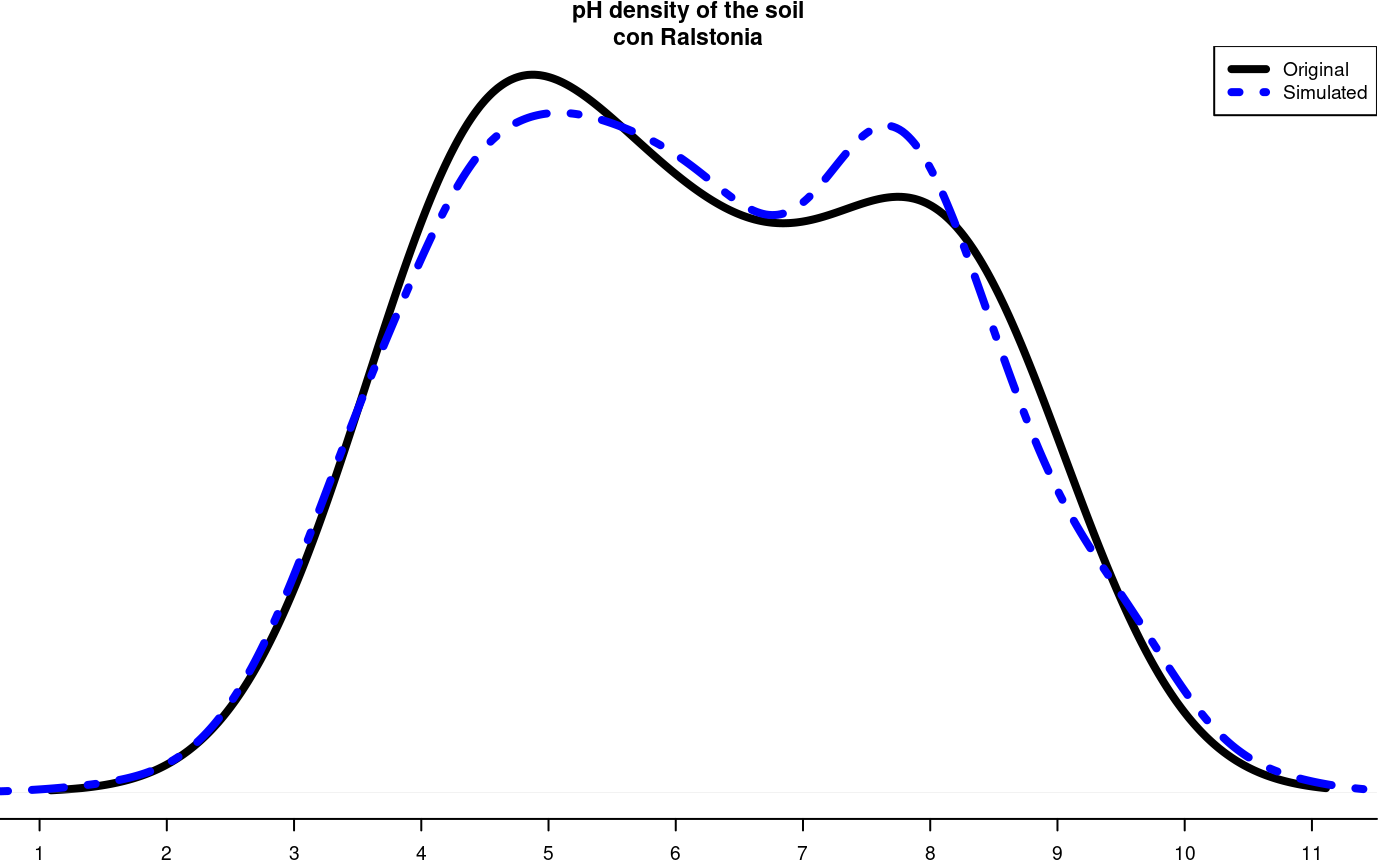
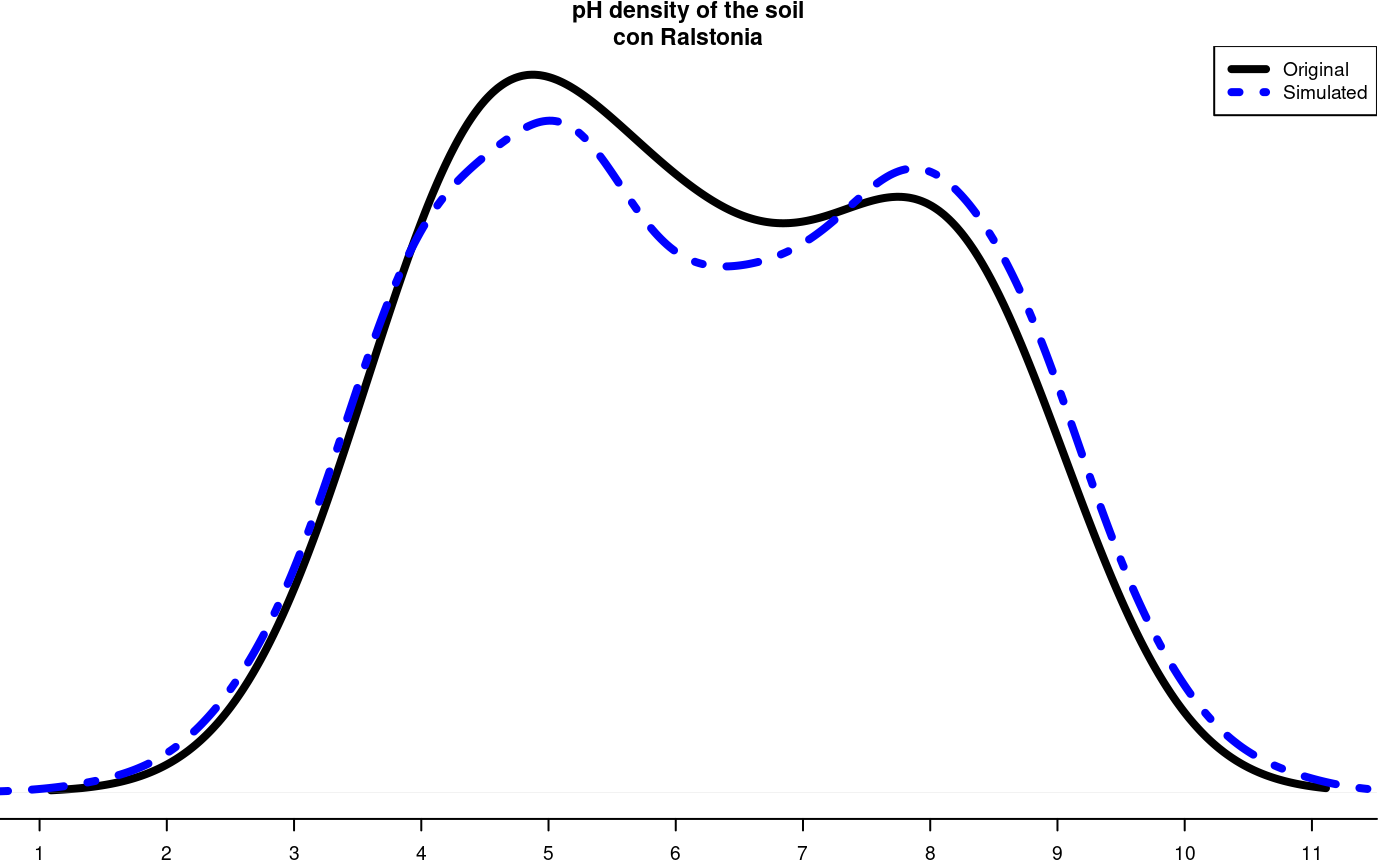
Version 1.4.0

diff --git a/docs/reference/AMMI.html b/docs/reference/AMMI.html
@@ -253,7 +253,84 @@ graphs and analysis.</p>
     <p>additional graphics see help(plot.AMMI).</p>
 
     <h2 class="hasAnchor" id="examples"><a class="anchor" href="#examples"></a>Examples</h2>
-    <pre class="examples"></pre>
+    <pre class="examples"><div class='input'>
+<span class='co'># Full replications</span>
+<span class='fu'><a href='https://rdrr.io/r/base/library.html'>library</a></span>(<span class='no'>agricolae</span>)
+<span class='co'># Example 1</span>
+<span class='fu'><a href='https://rdrr.io/r/utils/data.html'>data</a></span>(<span class='no'>plrv</span>)
+<span class='no'>model</span><span class='kw'>&lt;-</span> <span class='fu'><a href='https://rdrr.io/r/base/with.html'>with</a></span>(<span class='no'>plrv</span>,<span class='fu'>AMMI</span>(<span class='no'>Locality</span>, <span class='no'>Genotype</span>, <span class='no'>Rep</span>, <span class='no'>Yield</span>, <span class='kw'>console</span><span class='kw'>=</span><span class='fl'>FALSE</span>))
+<span class='no'>model</span>$<span class='no'>ANOVA</span></div><div class='output co'>#&gt; Analysis of Variance Table
+#&gt; 
+#&gt; Response: Y
+#&gt;            Df Sum Sq Mean Sq  F value    Pr(&gt;F)    
+#&gt; ENV         5 122284 24456.9 257.0382  9.08e-12 ***
+#&gt; REP(ENV)   12   1142    95.1   2.5694  0.002889 ** 
+#&gt; GEN        27  17533   649.4  17.5359 &lt; 2.2e-16 ***
+#&gt; ENV:GEN   135  23762   176.0   4.7531 &lt; 2.2e-16 ***
+#&gt; Residuals 324  11998    37.0                       
+#&gt; ---
+#&gt; Signif. codes:  0 ‘***’ 0.001 ‘**’ 0.01 ‘*’ 0.05 ‘.’ 0.1 ‘ ’ 1</div><div class='input'><span class='co'># see help(plot.AMMI)</span>
+<span class='co'># biplot</span>
+<span class='fu'><a href='https://rdrr.io/r/base/plot.html'>plot</a></span>(<span class='no'>model</span>)</div><div class='img'><img src='AMMI-1.png' alt='' width='700' height='433' /></div><div class='input'><span class='co'># triplot PC 1,2,3</span>
+<span class='fu'><a href='https://rdrr.io/r/base/plot.html'>plot</a></span>(<span class='no'>model</span>, <span class='kw'>type</span><span class='kw'>=</span><span class='fl'>2</span>, <span class='kw'>number</span><span class='kw'>=</span><span class='fl'>TRUE</span>)</div><div class='img'><img src='AMMI-2.png' alt='' width='700' height='433' /></div><div class='input'><span class='co'># biplot PC1 vs Yield</span>
+<span class='fu'><a href='https://rdrr.io/r/base/plot.html'>plot</a></span>(<span class='no'>model</span>, <span class='kw'>first</span><span class='kw'>=</span><span class='fl'>0</span>,<span class='kw'>second</span><span class='kw'>=</span><span class='fl'>1</span>, <span class='kw'>number</span><span class='kw'>=</span><span class='fl'>TRUE</span>)</div><div class='img'><img src='AMMI-3.png' alt='' width='700' height='433' /></div><div class='input'><span class='co'># Example 2</span>
+<span class='fu'><a href='https://rdrr.io/r/utils/data.html'>data</a></span>(<span class='no'>CIC</span>)
+<span class='no'>data1</span><span class='kw'>&lt;-</span><span class='no'>CIC</span>$<span class='no'>comas</span>[,<span class='fu'><a href='https://rdrr.io/r/base/c.html'>c</a></span>(<span class='fl'>1</span>,<span class='fl'>6</span>,<span class='fl'>7</span>,<span class='fl'>17</span>,<span class='fl'>18</span>)]
+<span class='no'>data2</span><span class='kw'>&lt;-</span><span class='no'>CIC</span>$<span class='no'>oxapampa</span>[,<span class='fu'><a href='https://rdrr.io/r/base/c.html'>c</a></span>(<span class='fl'>1</span>,<span class='fl'>6</span>,<span class='fl'>7</span>,<span class='fl'>19</span>,<span class='fl'>20</span>)]
+<span class='no'>cic</span> <span class='kw'>&lt;-</span> <span class='fu'><a href='https://rdrr.io/r/base/cbind.html'>rbind</a></span>(<span class='no'>data1</span>,<span class='no'>data2</span>)
+<span class='no'>model</span><span class='kw'>&lt;-</span><span class='fu'><a href='https://rdrr.io/r/base/with.html'>with</a></span>(<span class='no'>cic</span>,<span class='fu'>AMMI</span>(<span class='no'>Locality</span>, <span class='no'>Genotype</span>, <span class='no'>Rep</span>, <span class='no'>relative</span>))</div><div class='output co'>#&gt; 
+#&gt; Warning. The analysis AMMI is not possible.
+#&gt; The number of environments and number of genotypes must be greater than 2</div><div class='input'><span class='no'>model</span>$<span class='no'>ANOVA</span></div><div class='output co'>#&gt; Analysis of Variance Table
+#&gt; 
+#&gt; Response: Y
+#&gt;            Df Sum Sq Mean Sq  F value    Pr(&gt;F)    
+#&gt; ENV         1 6.1839  6.1839 184.8518 0.0001694 ***
+#&gt; REP(ENV)    4 0.1338  0.0335   8.4703 1.293e-06 ***
+#&gt; GEN       126 9.6729  0.0768  19.4377 &lt; 2.2e-16 ***
+#&gt; ENV:GEN   108 1.3479  0.0125   3.1601 &lt; 2.2e-16 ***
+#&gt; Residuals 492 1.9432  0.0039                       
+#&gt; ---
+#&gt; Signif. codes:  0 ‘***’ 0.001 ‘**’ 0.01 ‘*’ 0.05 ‘.’ 0.1 ‘ ’ 1</div><div class='input'><span class='fu'><a href='https://rdrr.io/r/base/plot.html'>plot</a></span>(<span class='no'>model</span>,<span class='fl'>0</span>,<span class='fl'>1</span>,<span class='kw'>angle</span><span class='kw'>=</span><span class='fl'>20</span>,<span class='kw'>ecol</span><span class='kw'>=</span><span class='st'>"brown"</span>)</div><div class='img'><img src='AMMI-4.png' alt='' width='700' height='433' /></div><div class='input'><span class='co'># Example 3</span>
+<span class='co'># Only means. Mean square error is well-known.</span>
+<span class='fu'><a href='https://rdrr.io/r/utils/data.html'>data</a></span>(<span class='no'>sinRepAmmi</span>)
+<span class='no'>REP</span> <span class='kw'>&lt;-</span> <span class='fl'>3</span>
+<span class='no'>MSerror</span> <span class='kw'>&lt;-</span> <span class='fl'>93.24224</span>
+<span class='co'>#startgraph</span>
+<span class='no'>model</span><span class='kw'>&lt;-</span><span class='fu'><a href='https://rdrr.io/r/base/with.html'>with</a></span>(<span class='no'>sinRepAmmi</span>,<span class='fu'>AMMI</span>(<span class='no'>ENV</span>, <span class='no'>GEN</span>, <span class='no'>REP</span>, <span class='no'>YLD</span>, <span class='no'>MSerror</span>,<span class='kw'>PC</span><span class='kw'>=</span><span class='fl'>TRUE</span>))
+<span class='co'># print anova</span>
+<span class='fu'><a href='https://rdrr.io/r/base/print.html'>print</a></span>(<span class='no'>model</span>$<span class='no'>ANOVA</span>,<span class='kw'>na.print</span> <span class='kw'>=</span> <span class='st'>""</span>)</div><div class='output co'>#&gt;            Df    Sum Sq      Mean Sq  F value       Pr(&gt;F)
+#&gt; ENV         4 728766.51 182191.62761                      
+#&gt; REP(ENV)   10                                             
+#&gt; GEN        49  23488.96    479.36643 5.141087 0.000000e+00
+#&gt; ENV:GEN   196  40728.33    207.79760 2.228578 9.998669e-13
+#&gt; Residuals 490  45688.70     93.24224                      </div><div class='input'><span class='co'># Biplot with the one restored observed.</span>
+<span class='fu'><a href='https://rdrr.io/r/base/plot.html'>plot</a></span>(<span class='no'>model</span>,<span class='fl'>0</span>,<span class='fl'>1</span>,<span class='kw'>type</span><span class='kw'>=</span><span class='fl'>1</span>)</div><div class='img'><img src='AMMI-5.png' alt='' width='700' height='433' /></div><div class='input'><span class='co'># with principal components model$PC is class "princomp"</span>
+<span class='no'>pc</span><span class='kw'>&lt;-</span> <span class='no'>model</span>$<span class='no'>PC</span>
+<span class='no'>pc</span>$<span class='no'>loadings</span></div><div class='output co'>#&gt; 
+#&gt; Loadings:
+#&gt;    Comp.1 Comp.2 Comp.3 Comp.4 Comp.5
+#&gt; A1  0.243  0.122  0.811  0.262  0.447
+#&gt; A2  0.312  0.120        -0.824  0.447
+#&gt; A3        -0.876 -0.131  0.107  0.447
+#&gt; A4 -0.846  0.287                0.447
+#&gt; A5  0.352  0.348 -0.563  0.489  0.447
+#&gt; 
+#&gt;                Comp.1 Comp.2 Comp.3 Comp.4 Comp.5
+#&gt; SS loadings       1.0    1.0    1.0    1.0    1.0
+#&gt; Proportion Var    0.2    0.2    0.2    0.2    0.2
+#&gt; Cumulative Var    0.2    0.4    0.6    0.8    1.0</div><div class='input'><span class='fu'><a href='https://rdrr.io/r/base/summary.html'>summary</a></span>(<span class='no'>pc</span>)</div><div class='output co'>#&gt; Importance of components:
+#&gt;                            Comp.1    Comp.2    Comp.3     Comp.4       Comp.5
+#&gt; Standard deviation     13.2655703 7.1030079 6.0540524 2.90561020 1.833059e-08
+#&gt; Proportion of Variance  0.6481067 0.1858144 0.1349855 0.03109348 1.237507e-18
+#&gt; Cumulative Proportion   0.6481067 0.8339211 0.9689065 1.00000000 1.000000e+00</div><div class='input'><span class='fu'><a href='https://rdrr.io/r/stats/biplot.html'>biplot</a></span>(<span class='no'>pc</span>)</div><div class='img'><img src='AMMI-6.png' alt='' width='700' height='433' /></div><div class='input'><span class='co'># Principal components by means of the covariance similar AMMI</span>
+<span class='co'># It is to compare results with AMMI</span>
+<span class='no'>cova</span><span class='kw'>&lt;-</span><span class='fu'><a href='https://rdrr.io/r/stats/cor.html'>cov</a></span>(<span class='no'>model</span>$<span class='no'>genXenv</span>)
+<span class='no'>values</span><span class='kw'>&lt;-</span><span class='fu'><a href='https://rdrr.io/r/base/eigen.html'>eigen</a></span>(<span class='no'>cova</span>)
+<span class='no'>total</span><span class='kw'>&lt;-</span><span class='fu'><a href='https://rdrr.io/r/base/sum.html'>sum</a></span>(<span class='no'>values</span>$<span class='no'>values</span>)
+<span class='fu'><a href='https://rdrr.io/r/base/Round.html'>round</a></span>(<span class='no'>values</span>$<span class='no'>values</span>*<span class='fl'>100</span>/<span class='no'>total</span>,<span class='fl'>2</span>)</div><div class='output co'>#&gt; [1] 64.81 18.58 13.50  3.11  0.00</div><div class='input'># AMMI: 64.81 18.58 13.50  3.11  0.00
+
+
+</div></pre>
   </div>
   <div class="col-md-3 hidden-xs hidden-sm" id="pkgdown-sidebar">
     <nav id="toc" data-toggle="toc" class="sticky-top">

diff --git a/docs/articles/SpecialFunctions.html b/docs/articles/SpecialFunctions.html
@@ -190,7 +190,7 @@ Method distance: binary
 Method cluster : complete
 rows and cols  : 25 107
 n-bootstrap    : 5
-Run time       : 0.601563 secs </code></pre>
+Run time       : 0.6989639 secs </code></pre>
 <div class="figure">
 <img src="SpecialFunctions_files/figure-html/f7-1.png" alt="Dendrogram, production by `consensus`" width="700"><p class="caption">
 Dendrogram, production by <code>consensus</code>
@@ -216,12 +216,12 @@ Dendrogram, production by <code><a href="../reference/hcut.html">hcut()</a></cod
 <span class="no">data</span> <span class="kw">&lt;-</span> <span class="no">output</span>$<span class="no">table.dend</span>
 <span class="fu"><a href="https://rdrr.io/r/utils/head.html">head</a></span>(<span class="no">output</span>$<span class="no">table.dend</span>)</pre></body></html></div>
 <pre><code>   X1  X2 xaxis     height percentage groups
-1  -6 -24  7.50 0.02857143         80   6-24
-2  -3  -4 19.50 0.03571429         40    3-4
-3  -2  -8 22.50 0.03846154         80    2-8
-4  -7 -10 10.50 0.03846154         60   7-10
-5 -21   2 18.75 0.07142857         40 3-4-21
-6 -16   3 21.75 0.07407407         80 2-8-16</code></pre>
+1  -6 -24  7.50 0.02857143         40   6-24
+2  -3  -4 19.50 0.03571429         80    3-4
+3  -2  -8 22.50 0.03846154         60    2-8
+4  -7 -10 10.50 0.03846154        100   7-10
+5 -21   2 18.75 0.07142857         60 3-4-21
+6 -16   3 21.75 0.07407407         20 2-8-16</code></pre>
 <div class="sourceCode" id="cb10"><html><body><pre class="r"><span class="no">oldpar</span><span class="kw">&lt;-</span><span class="fu"><a href="https://rdrr.io/r/graphics/par.html">par</a></span>(<span class="kw">mar</span><span class="kw">=</span><span class="fu"><a href="https://rdrr.io/r/base/c.html">c</a></span>(<span class="fl">3</span>,<span class="fl">3</span>,<span class="fl">1</span>,<span class="fl">1</span>),<span class="kw">cex</span><span class="kw">=</span><span class="fl">0.6</span>)
 <span class="fu"><a href="https://rdrr.io/r/base/plot.html">plot</a></span>(<span class="no">dend</span>,<span class="kw">type</span><span class="kw">=</span><span class="st">"r"</span>,<span class="kw">edgePar</span> <span class="kw">=</span> <span class="fu"><a href="https://rdrr.io/r/base/list.html">list</a></span>(<span class="kw">lty</span><span class="kw">=</span><span class="fl">1</span>:<span class="fl">2</span>, <span class="kw">col</span><span class="kw">=</span><span class="fu"><a href="https://rdrr.io/r/grDevices/colors.html">colors</a></span>()[<span class="fu"><a href="https://rdrr.io/r/base/c.html">c</a></span>(<span class="fl">42</span>,<span class="fl">84</span>)]) ,<span class="kw">las</span><span class="kw">=</span><span class="fl">1</span>)
 <span class="fu"><a href="https://rdrr.io/r/graphics/text.html">text</a></span>(<span class="no">data</span>[,<span class="fl">3</span>],<span class="no">data</span>[,<span class="fl">4</span>],<span class="no">data</span>[,<span class="fl">5</span>],<span class="kw">col</span><span class="kw">=</span><span class="st">"blue"</span>,<span class="kw">cex</span><span class="kw">=</span><span class="fl">1</span>)</pre></body></html></div>
@@ -251,13 +251,13 @@ Distribution of the simulated and the original data
 <p>1000 data was simulated, being the frequency table:</p>
 <div class="sourceCode" id="cb15"><html><body><pre class="r"><span class="fu"><a href="https://rdrr.io/r/base/Round.html">round</a></span>(<span class="fu"><a href="../reference/table.freq.html">table.freq</a></span>(<span class="no">h</span>),<span class="fl">2</span>)</pre></body></html></div>
 <pre><code>  Lower Upper  Main Frequency Percentage   CF   CPF
-1  1.40  2.76  2.08        13        1.3   13   1.3
-2  2.76  4.12  3.44       127       12.7  140  14.0
-3  4.12  5.48  4.80       250       25.0  390  39.0
-4  5.48  6.84  6.16       227       22.7  617  61.7
-5  6.84  8.20  7.52       237       23.7  854  85.4
-6  8.20  9.56  8.88       122       12.2  976  97.6
-7  9.56 10.92 10.24        24        2.4 1000 100.0</code></pre>
+1  1.50  2.83  2.16        20        2.0   20   2.0
+2  2.83  4.16  3.50       141       14.1  161  16.1
+3  4.16  5.49  4.83       245       24.5  406  40.6
+4  5.49  6.82  6.16       183       18.3  589  58.9
+5  6.82  8.15  7.48       223       22.3  812  81.2
+6  8.15  9.48  8.82       159       15.9  971  97.1
+7  9.48 10.81 10.15        29        2.9 1000 100.0</code></pre>
 <p><strong>Some statistics, original data:</strong></p>
 <div class="sourceCode" id="cb17"><html><body><pre class="r"><span class="fu"><a href="https://rdrr.io/r/base/summary.html">summary</a></span>(<span class="no">soil</span>$<span class="no">pH</span>)</pre></body></html></div>
 <pre><code>   Min. 1st Qu.  Median    Mean 3rd Qu.    Max. 
@@ -265,7 +265,7 @@ Distribution of the simulated and the original data
 <p><strong>Some statistics, montecarlo simulate data:</strong></p>
 <div class="sourceCode" id="cb19"><html><body><pre class="r"><span class="fu"><a href="https://rdrr.io/r/base/summary.html">summary</a></span>(<span class="no">simulated</span>)</pre></body></html></div>
 <pre><code>   Min. 1st Qu.  Median    Mean 3rd Qu.    Max. 
-  1.423   4.718   6.090   6.183   7.639  10.895 </code></pre>
+  1.541   4.659   6.178   6.231   7.835  10.757 </code></pre>
 </div>
 <div id="re-sampling-in-linear-model" class="section level2">
 <h2 class="hasAnchor">
@@ -280,9 +280,9 @@ Distribution of the simulated and the original data
 <span class="no">Xsol</span><span class="kw">&lt;-</span><span class="fu"><a href="https://rdrr.io/r/base/matrix.html">as.matrix</a></span>(<span class="fu"><a href="https://rdrr.io/r/base/Round.html">round</a></span>(<span class="no">analysis</span>$<span class="no">solution</span>,<span class="fl">2</span>))
 <span class="fu"><a href="https://rdrr.io/r/base/print.html">print</a></span>(<span class="no">Xsol</span>,<span class="kw">na.print</span> <span class="kw">=</span> <span class="st">""</span>)</pre></body></html></div>
 <pre><code>             Df Sum Sq Mean Sq F value Pr(&gt;F) Resampling
-variety       1  25.09   25.09    7.26   0.02       0.01
-date          2  13.89    6.95    2.01   0.18       0.22
-variety:date  2   4.85    2.43    0.70   0.51       0.54
+variety       1  25.09   25.09    7.26   0.02       0.02
+date          2  13.89    6.95    2.01   0.18       0.21
+variety:date  2   4.85    2.43    0.70   0.51       0.55
 Residuals    12  41.48    3.46                          </code></pre>
 <p>The function <code><a href="../reference/resampling.model.html">resampling.model()</a></code> can be used when the errors have a different distribution from normal.</p>
 </div>
@@ -313,11 +313,11 @@ Validation of the analysis of variancia for the proposed model
 Simulations: 100 
 
              Df   F value % Acceptance % Rejection  Criterion
-variety       1 7.2580377           53          47 acceptable
-date          2 2.0095604           63          37 acceptable
-variety:date  2 0.7020312           70          30 acceptable
+variety       1 7.2580377           59          41 acceptable
+date          2 2.0095604           66          34 acceptable
+variety:date  2 0.7020312           68          32 acceptable
 ---</code></pre>
-<p>The validation is referred to the percentage of decision results equal to the result of the ANOVA decision. Thus, 70% of the results simulated on the interaction variety*date gave the same result of acceptance or rejection obtained in the ANOVA.</p>
+<p>The validation is referred to the percentage of decision results equal to the result of the ANOVA decision. Thus, 68% of the results simulated on the interaction variety*date gave the same result of acceptance or rejection obtained in the ANOVA.</p>
 </div>
 <div id="path-analysis" class="section level2">
 <h2 class="hasAnchor">
@@ -527,7 +527,7 @@ Method: Shannon
 The index: 2.541336 
 
 95 percent confidence interval:
- 2.283752 ; 3.07635 </code></pre>
+ 2.22808 ; 3.076422 </code></pre>
 </div>
 <div id="correlation" class="section level2">
 <h2 class="hasAnchor">

diff --git a/docs/reference/consensus.html b/docs/reference/consensus.html
@@ -288,7 +288,7 @@ Tibshirani. 1993. Chapman and Hall/CRC</p>
 #&gt; Method cluster : complete
 #&gt; rows and cols  : 25 107
 #&gt; n-bootstrap    : 5
-#&gt; Run time       : 0.6648221 secs 
+#&gt; Run time       : 0.7514513 secs 
 #&gt; </div><div class='img'><img src='consensus-1.png' alt='' width='700' height='433' /></div><div class='input'><span class='co'># Order consensus</span>
 <span class='no'>Groups</span><span class='kw'>&lt;-</span><span class='no'>output</span>$<span class='no'>table.dend</span>[,<span class='fu'><a href='https://rdrr.io/r/base/c.html'>c</a></span>(<span class='fl'>6</span>,<span class='fl'>5</span>)]
 <span class='no'>Groups</span><span class='kw'>&lt;-</span><span class='no'>Groups</span>[<span class='fu'><a href='https://rdrr.io/r/base/order.html'>order</a></span>(<span class='no'>Groups</span>[,<span class='fl'>2</span>],<span class='kw'>decreasing</span><span class='kw'>=</span><span class='fl'>TRUE</span>),]
@@ -356,7 +356,7 @@ Tibshirani. 1993. Chapman and Hall/CRC</p>
 #&gt; Method cluster : complete
 #&gt; rows and cols  : 43 107
 #&gt; n-bootstrap    : 5
-#&gt; Run time       : 0.03193855 secs 
+#&gt; Run time       : 0.03715515 secs 
 #&gt; </div><div class='img'><img src='consensus-5.png' alt='' width='700' height='433' /></div><div class='input'>## using distance gower, require cluster package.
 # output&lt;-consensus( pamCIP,distance="gower", method="complete",nboot=5)
 

diff --git a/docs/reference/resampling.cv.html b/docs/reference/resampling.cv.html
@@ -240,7 +240,7 @@ Boostrap. Chapman and Hall/CRC</p>
 <span class='co'>#example table of molecular markers</span>
 <span class='fu'><a href='https://rdrr.io/r/utils/data.html'>data</a></span>(<span class='no'>markers</span>)
 <span class='no'>study</span><span class='kw'>&lt;-</span><span class='fu'>resampling.cv</span>(<span class='no'>markers</span>,<span class='kw'>size</span><span class='kw'>=</span><span class='fl'>1</span>,<span class='kw'>npoints</span><span class='kw'>=</span><span class='fl'>15</span>)</div><div class='output co'>#&gt; 
-#&gt; Time of process ... 1.625372 </div><div class='input'><span class='co'>#</span>
+#&gt; Time of process ... 1.812139 </div><div class='input'><span class='co'>#</span>
 <span class='co'># Results of the model</span>
 <span class='fu'><a href='https://rdrr.io/r/base/summary.html'>summary</a></span>(<span class='no'>study</span>$<span class='no'>model</span>)</div><div class='output co'>#&gt; 
 #&gt; Call:

diff --git a/docs/reference/AMMI.contour.html b/docs/reference/AMMI.contour.html
@@ -316,13 +316,8 @@ the BIPLOT function but not for the TRIPLOT one.</p>
 #&gt; 9  3.1242502
 #&gt; </div><div class='input'>
 
-<span class='no'>AMMI.contour</span> <span class='kw'>&lt;-</span>
-  <span class='kw'>function</span>(<span class='no'>model</span>,<span class='no'>distance</span>,<span class='no'>shape</span>,<span class='no'>...</span>){
-    <span class='fu'><a href='https://rdrr.io/r/base/UseMethod.html'>UseMethod</a></span>(<span class='st'>"AMMI.contour"</span>)
-  }
 
-<span class='co'>#' @export</span>
-<span class='co'>#' @rdname AMMI.contour</span></div></pre>
+</div></pre>
   </div>
   <div class="col-md-3 hidden-xs hidden-sm" id="pkgdown-sidebar">
     <nav id="toc" data-toggle="toc" class="sticky-top">

diff --git a/docs/articles/Intro_agricolae.html b/docs/articles/Intro_agricolae.html
@@ -3051,7 +3051,7 @@ Method distance: binary
 Method cluster : complete
 rows and cols  : 25 107
 n-bootstrap    : 5
-Run time       : 0.82 secs </code></pre>
+Run time       : 0.67 secs </code></pre>
 <div class="figure">
 <img src="Intro_agricolae_files/figure-html/f7-1.png" alt="Dendrogram, production by `consensus`" width="700"><p class="caption">
 Dendrogram, production by <code>consensus</code>
